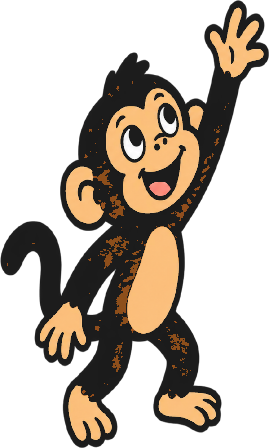
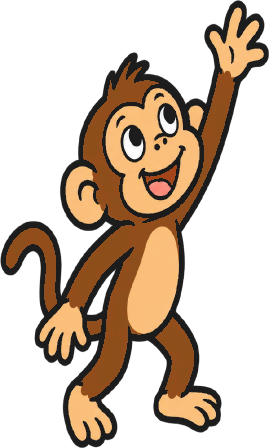
fix(art): keep the characters' dark fills instead of inking them
The monkey's fur, the hedgehog's spines and the Pulpito's hat sit at luma
80-99, straddling the contour threshold, and shipped as black speckle.
The new 'character' mode inks only luma < 50 and lifts chromatic dark fills
to the threshold. The stage bubble's smudged inside is now fully opaque.

diff --git a/scripts/art/build_art.py b/scripts/art/build_art.py
@@ -259,6 +259,97 @@ def recontour(img: png.Image):
         px[i:i + 3] = got
 
 
+# T49: below this luma a pixel of a round-2 character is unambiguously its
+# marker line (the line measures luma 0-9, the darkest fills 70+).
+CHARACTER_INK_LUMA = 50
+
+
+def lift_dark_fills(img: png.Image) -> None:
+    """The `'character'` mode (T49): `recontour` for art whose FILLS are dark.
+
+    `recontour` sends every pixel under `INK_LUMA` (90) to INK, which is right
+    for art drawn with light fills and wrong for the round-2 characters: the
+    monkey's fur (`#8a5a3c` and its shading) measures luma 80-99, the
+    uncurling hedgehog's spines 80-99, the Pulpito's hat 70-79. Through
+    `recontour` that fill straddles the threshold and ships as black speckle
+    over brown (measured on the first build of this task: 22% of the
+    monkey's opaque pixels sat in the 80-89 band).
+
+    Here only pixels under `CHARACTER_INK_LUMA` become INK. Between that and
+    `INK_LUMA`, an achromatic pixel (chroma <= 4, the sheep's grey face) is
+    kept as drawn, and a chromatic one is a fill: it is lifted, hue kept, to
+    luma `INK_LUMA`, so the drawn world's rule that every dark pixel is an
+    achromatic line (`artHierarchy.test.ts`) still holds without
+    blackening the fill. Cached on the RGB triple like `recontour`."""
+    px = img.px
+    cache: dict[bytes, bytes] = {}
+    for i in range(0, len(px), 4):
+        if px[i + 3] == 0:
+            continue
+        key = bytes(px[i:i + 3])
+        got = cache.get(key)
+        if got is None:
+            r, g, b = key
+            level = luma(r, g, b)
+            if level < CHARACTER_INK_LUMA:
+                got = bytes(INK)
+            elif level < INK_LUMA and max(r, g, b) - min(r, g, b) > 4:
+                k = (INK_LUMA + 0.5) / max(1, level)
+                got = bytes(min(255, round(c * k)) for c in (r, g, b))
+            else:
+                got = key
+            cache[key] = got
+        px[i:i + 3] = got
+
+
+def fill_enclosed_alpha(img: png.Image) -> None:
+    """Make everything enclosed by the outline fully opaque (T49).
+
+    `bocadillo izquierda.png`'s inside came back at alpha ~242 under its grey
+    smudge, so even repainted white the smudge stayed visible as a faint
+    patch of whatever is behind the bubble. The outside is every pixel under
+    alpha 128 reachable from the canvas border; it is grown by two pixels so
+    the outline's own antialiased outer edge is left alone, and everything
+    else becomes alpha 255."""
+    w, h = img.w, img.h
+    px = img.px
+    outside = bytearray(w * h)
+    queue: deque[int] = deque()
+    for x in range(w):
+        for y in (0, h - 1):
+            queue.append(y * w + x)
+    for y in range(h):
+        for x in (0, w - 1):
+            queue.append(y * w + x)
+    while queue:
+        ci = queue.popleft()
+        if outside[ci] or px[ci * 4 + 3] >= 128:
+            continue
+        outside[ci] = 1
+        cy, cx = divmod(ci, w)
+        if cx > 0:
+            queue.append(ci - 1)
+        if cx < w - 1:
+            queue.append(ci + 1)
+        if cy > 0:
+            queue.append(ci - w)
+        if cy < h - 1:
+            queue.append(ci + w)
+    for _ in range(2):
+        grown = bytearray(outside)
+        for ci in range(w * h):
+            if outside[ci]:
+                continue
+            cy, cx = divmod(ci, w)
+            if ((cx > 0 and outside[ci - 1]) or (cx < w - 1 and outside[ci + 1])
+                    or (cy > 0 and outside[ci - w]) or (cy < h - 1 and outside[ci + w])):
+                grown[ci] = 1
+        outside = grown
+    for ci in range(w * h):
+        if not outside[ci]:
+            px[ci * 4 + 3] = 255
+
+
 def dominant_fill(img: png.Image) -> str:
     """The authored fill of a two-tone clue mark, as `#rrggbb`.
 
@@ -421,7 +512,9 @@ def prepare(src_name: str, target_h: int) -> png.Image:
 # (source, output, target height, fill or None, keep_ink[, sample_spine])
 #
 # `fill=None` keeps authored colours without contour processing;
-# `fill='contour'` keeps the fills but normalizes every dark contour to INK.
+# `fill='contour'` keeps the fills but normalizes every dark contour to INK;
+# `fill='character'` (T49) is `contour` for art with dark fills, see
+# `lift_dark_fills`.
 # The animals, octopuses, and world characters keep authored fills because
 # they ARE the answer/presence in the scene, not reward-coloured clue marks.
 #
@@ -551,7 +644,7 @@ SINGLES = [
     # `make_placeholders.py` sign block that stood in since P1; that file
     # stays in `art-source/` (`docs/23` §7 point 3) but nothing ships it.
     # Poses 2 and 3 are the `FRAMED` rows below.
-    ('mono v2.png',           'animal-mono.png',           448, 'contour',    True),
+    ('mono v2.png',           'animal-mono.png',           448, 'character',    True),
     # `carrier-octopus.png` moved to `FRAMED` (T49, `docs/23` D6): it now
     # ships on the same canvas as its lens-less twin.
     # The home screen (docs/10). The octopus sits in its office with eight free
@@ -621,7 +714,7 @@ SINGLES = [
     # returns the sheep's own box (45-988 x 122-923) and the 1-8 alpha band
     # is a smooth antialiasing tail (0.56% of the canvas, falling from alpha
     # 1, no spike), so it needs neither opt-in set.
-    ('oveja v2.png',           'sector-sheep.png',          448, 'contour',    True),
+    ('oveja v2.png',           'sector-sheep.png',          448, 'character',    True),
     # The entrance's night findable objects (design.md §3.4): drawn-world
     # props standing beside the child's own ink, not reward-coloured clue
     # marks, so `fill='contour'` matches every sibling `sector-*` row rather
@@ -670,15 +763,15 @@ SINGLES = [
     # `docs/23` D7: the Pulpito on the scene. Points at the entry screen
     # (mirrored when he stands in the right corner), thinks on the deduction,
     # cheers on the rescue closing (`docs/19` §4.1's table).
-    ('pulpo senala.png',       'zoo-octopus-points.png',    448, 'contour',    True),
-    ('pulpo piensa.png',       'zoo-octopus-thinks.png',    448, 'contour',    True),
-    ('pulpo festeja.png',      'zoo-octopus-cheers.png',    448, 'contour',    True),
+    ('pulpo senala.png',       'zoo-octopus-points.png',    448, 'character',    True),
+    ('pulpo piensa.png',       'zoo-octopus-thinks.png',    448, 'character',    True),
+    ('pulpo festeja.png',      'zoo-octopus-cheers.png',    448, 'character',    True),
     # `docs/20` B14 pose 2: the hedgehog uncurling with every spine on, for
     # the hedgehog's rescue (closing, map, notebook, deduction). Pose 1
     # (`erizo con espinas.png`) is NOT shipped: its export is cut off by the
     # right edge of the canvas (418 opaque rows on column 1023), so the
     # hedgehog's back ends in a straight vertical line.
-    ('erizo desenroscando recortado.png', 'hedgehog-uncurling.png', 448, 'contour', True),
+    ('erizo desenroscando recortado.png', 'hedgehog-uncurling.png', 448, 'character', True),
     # `docs/20` B17: the shed snake skin, shown on the snakes' entry screen.
     ('piel vibora.png',        'sector-shed-skin.png',      448, 'contour',    True),
     # `docs/20` B9: the stage screens' speech bubble, same tail corner as
@@ -1378,8 +1471,12 @@ def main() -> None:
         src, name, target_h, fill, keep_ink = row[:5]
         want_spine = row[5] if len(row) > 5 else False
         img = prepare(src, target_h)
+        if name == 'zoo-speech-bubble-left.png':
+            fill_enclosed_alpha(img)
         if fill == 'contour':
             recontour(img)
+        elif fill == 'character':
+            lift_dark_fills(img)
         elif fill is not None:
             recolour(img, fill, keep_ink)
         final = png.box_resize(img, max(1, img.w // 2), max(1, img.h // 2))
@@ -1400,6 +1497,8 @@ def main() -> None:
             )
         ):
             recontour(final)
+        if fill == 'character':
+            lift_dark_fills(final)
         # `sample_spine` reads the SHIPPED file -- the exact array `emit`
         # crops to its own alpha bbox -- so the manifest's `w`/`h` fractions
         # match what `assets.ts`'s registry ships, not the pre-crop canvas.
@@ -1424,9 +1523,9 @@ def main() -> None:
         img = png.read_png(os.path.join(SRC, src))
         scale = target * 2 / max(img.w, img.h)
         img = png.box_resize(img, max(1, round(img.w * scale)), max(1, round(img.h * scale)))
-        recontour(img)
+        lift_dark_fills(img)
         final = png.box_resize(img, max(1, img.w // 2), max(1, img.h // 2))
-        recontour(final)
+        lift_dark_fills(final)
         key = name[:-4]
         manifest[key] = emit_framed(name, final)
         print(f'  {key:26s} {manifest[key]["w"]}x{manifest[key]["h"]} '
